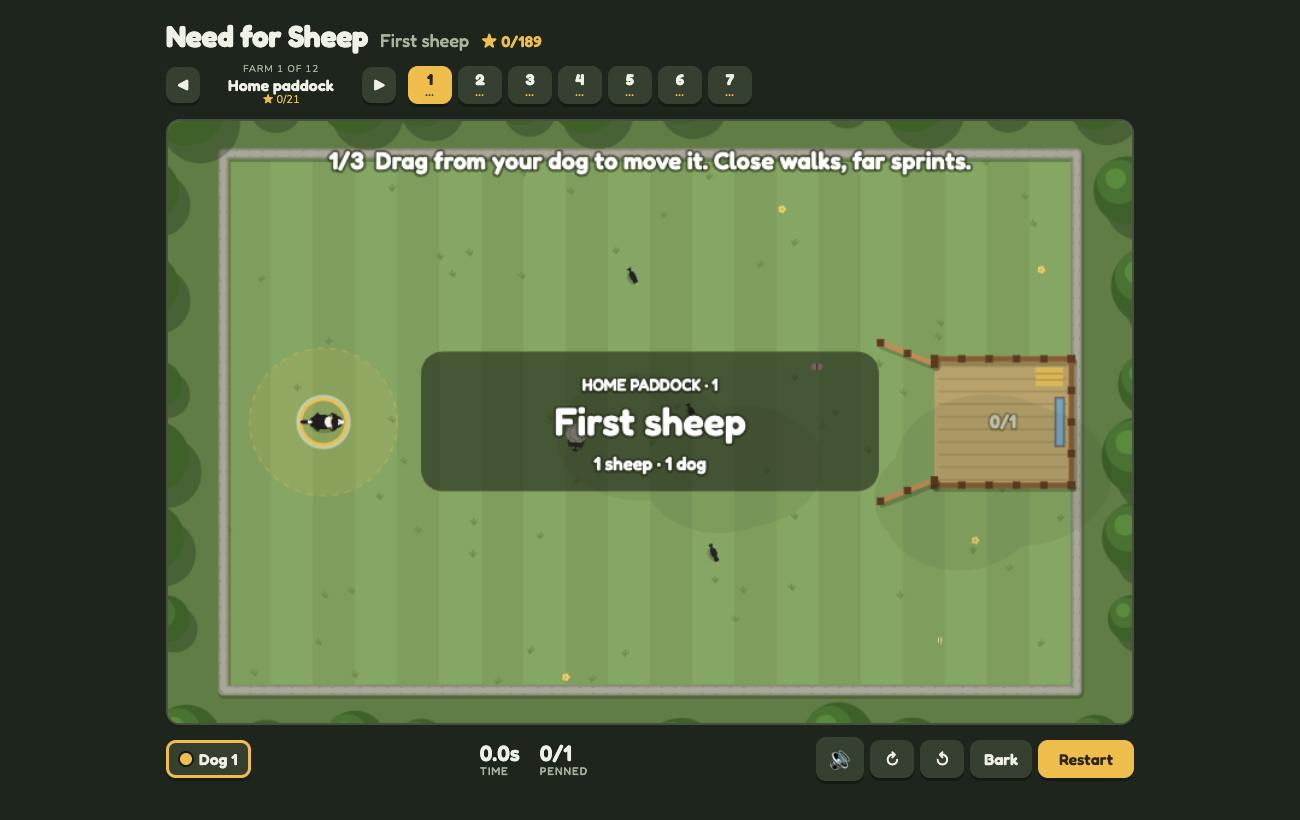
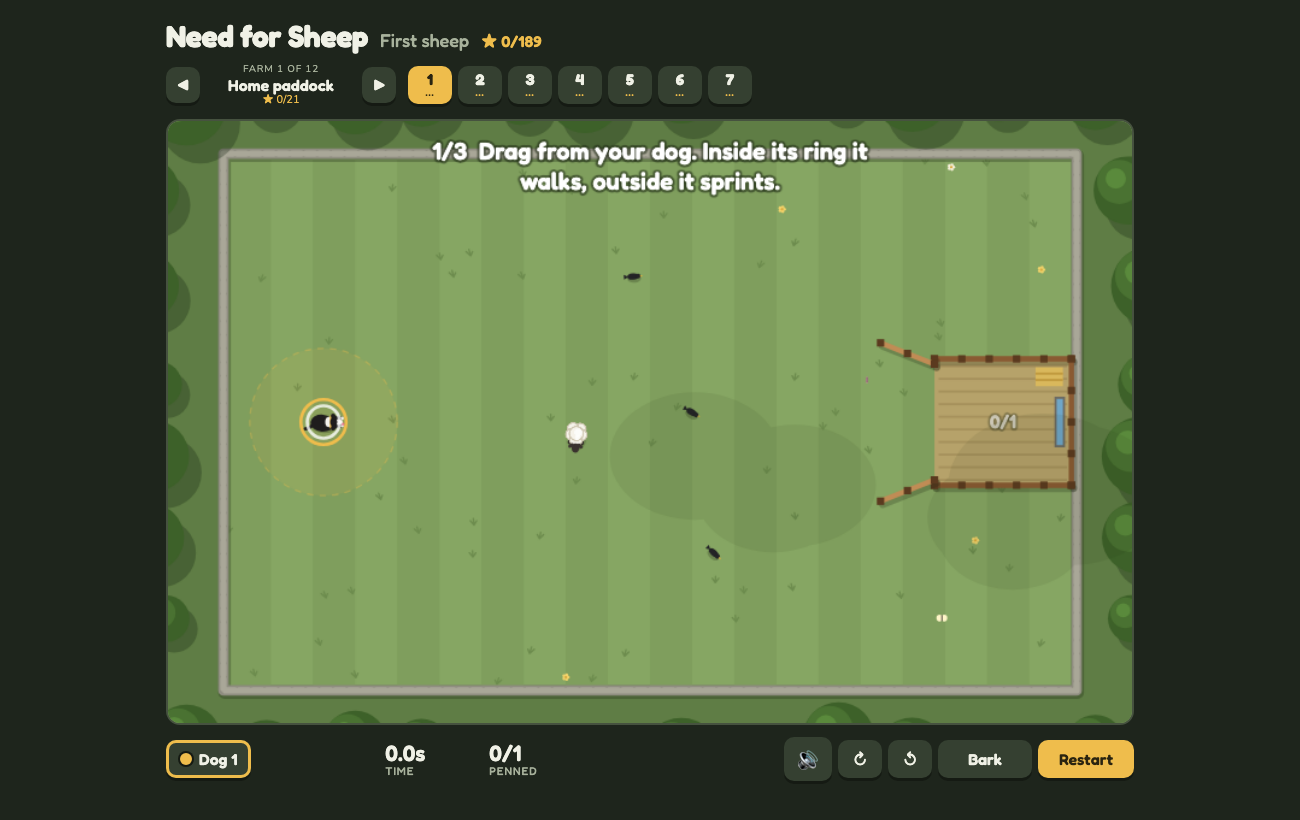
Need for Sheep: walk inside the dog's ring, wrapped tips that linger, a board that never jumps
- Dragging: the dog walks while the pointer is inside its dashed ring and sprints outside it
  (was: within ~40 field px, under a fingertip on zoomed fields); the pointer marker turns red when sprinting.
- On-field text wraps (seven tips ran off the canvas or under the minimap); a level's tip stays
  five seconds into the run and fades, instead of vanishing on the first move.
- Fixed header and bar layout: title row and farm row always separate, the Ghost button keeps its
  slot, Bark and the stats have room for their longest text.
- Instant hover help on the bar's buttons and level numbers.
- New UI settings block (POINTER_*, TIP_*, LABEL_MAX_WIDTH); sim untouched, so par times and the bot stand.

diff --git a/index.html b/index.html
@@ -24,10 +24,12 @@ body{margin:0}
 }
 body{background:var(--bg);color:var(--ink);font-family:var(--f-body);font-size:15px}
 .wrap{max-width:1000px;margin:0 auto;padding:18px 16px 40px;display:grid;gap:12px}
-.top{display:flex;flex-wrap:wrap;align-items:center;justify-content:space-between;gap:10px 16px}
-.title{display:flex;align-items:baseline;gap:12px;flex-wrap:wrap;min-width:0}
+/* The header keeps one shape on every level and farm: title row, then the farm and its levels, so the board never jumps. */
+.top{display:grid;gap:10px}
+.title{display:flex;align-items:baseline;gap:12px;min-width:0}
 h1{font-family:var(--f-display);font-weight:700;font-size:30px;margin:0;letter-spacing:-.01em}
-#lvname{font-family:var(--f-display);font-weight:500;font-size:18px;color:var(--muted)}
+#lvname{font-family:var(--f-display);font-weight:500;font-size:18px;color:var(--muted);min-width:0;white-space:nowrap;overflow:hidden;text-overflow:ellipsis}
+h1,#starTotal{white-space:nowrap}
 .levels{display:flex;gap:8px 12px;flex-wrap:wrap;align-items:center}
 .farmnav{display:flex;align-items:center;gap:6px}
 .farmnav button{width:34px;padding:8px 0}
@@ -50,13 +52,19 @@ button:active{transform:translateY(2px);box-shadow:0 1px 0 #151a13}
 button:focus-visible{outline:3px solid var(--accent);outline-offset:2px}
 button.primary{background:var(--accent);color:#2a2410;min-width:96px}
 button.off{opacity:.45}
+/* Instant hover help on the bar's buttons (a title tooltip takes a second to appear). */
+[data-tip]{position:relative}
+[data-tip]:hover::after{content:attr(data-tip);position:absolute;bottom:calc(100% + 8px);right:0;white-space:nowrap;pointer-events:none;
+  font:600 13px var(--f-body);color:var(--ink);background:var(--panel);border:1px solid var(--line);padding:5px 9px;border-radius:8px;box-shadow:0 3px 8px rgba(0,0,0,.35);z-index:5}
+@media (hover:none){[data-tip]:hover::after{display:none}}
 button.whistle{width:44px;padding:9px 0;touch-action:none}
+#bBark{min-width:94px} /* room for the cooldown, so the bar never shifts */
 button.whistle.on{background:var(--accent);color:#2a2410}
 .dog{display:flex;align-items:center;gap:7px}
 .dog i{width:12px;height:12px;border-radius:50%;display:block;box-shadow:0 0 0 2px #151a13}
 .dog.sel{box-shadow:0 0 0 3px var(--c) inset,0 3px 0 #151a13}
 .stats{display:flex;gap:20px;font-family:var(--f-display);font-variant-numeric:tabular-nums}
-.stat{display:grid;line-height:1.1}
+.stat{display:grid;line-height:1.1;min-width:84px} /* room for 4-digit times and 150/150 */
 .stat b{font-size:22px;font-weight:600}
 .stat span{font-size:11px;color:var(--muted);text-transform:uppercase;letter-spacing:.08em}
 .overlay{position:absolute;inset:0;display:grid;place-items:safe center;overflow:auto;background:rgba(18,23,16,.6);padding:16px}
@@ -87,7 +95,7 @@ button.whistle.on{background:var(--accent);color:#2a2410}
 .board .note{margin:0;font-size:13px;color:var(--muted)}
 @keyframes pop{0%{transform:scale(0) rotate(-40deg)}100%{transform:scale(1)}}
 @media (prefers-reduced-motion:reduce){.stars span.on{animation:none}}
-@media (max-width:560px){h1{font-size:24px}.stat b{font-size:18px}button{font-size:14px;padding:8px 11px}}
+@media (max-width:560px){h1{font-size:24px}.stat b{font-size:18px}.stat{min-width:70px}button{font-size:14px;padding:8px 11px}.lv{width:38px}#bBark{min-width:80px}}
 </style>
 </head>
 <body>
@@ -123,12 +131,12 @@ button.whistle.on{background:var(--accent);color:#2a2410}
       <div class="stat"><b id="sSheep">0/1</b><span id="sSheepLabel">penned</span></div>
     </div>
     <div class="group">
-      <button id="bGhost" title="G: show or hide the ghost">Ghost</button>
-      <button id="bSound" title="M: sound on or off" aria-label="Sound">🔊</button>
-      <button class="whistle" id="bComeBye" title="Q (hold): come bye, circle the flock clockwise" aria-label="Come bye">↻</button>
-      <button class="whistle" id="bAway" title="E (hold): away to me, circle the flock anticlockwise" aria-label="Away to me">↺</button>
-      <button id="bBark" title="Space">Bark <small id="barkCd"></small></button>
-      <button class="primary" id="bRestart">Restart</button>
+      <button id="bGhost" data-tip="Show or hide the ghost (G)">Ghost</button>
+      <button id="bSound" data-tip="Sound on or off (M)" aria-label="Sound">🔊</button>
+      <button class="whistle" id="bComeBye" data-tip="Hold: circle the flock clockwise (Q)" aria-label="Come bye">↻</button>
+      <button class="whistle" id="bAway" data-tip="Hold: circle the flock anticlockwise (E)" aria-label="Away to me">↺</button>
+      <button id="bBark" data-tip="Bark: lambs run behind the ewes (Space)">Bark <small id="barkCd"></small></button>
+      <button class="primary" id="bRestart" data-tip="Start the level again (R)">Restart</button>
     </div>
   </div>
 </div>
@@ -881,6 +889,12 @@ if(typeof module!=='undefined')module.exports={LEVELS,FARMS,ORDER,makeWorld,step
 
 <script>
 /* ---------- game UI ---------- */
+// UI settings: how the controls feel and how long hints stay up (the simulation's own numbers are in the sim script)
+const POINTER_WALK_ZONE=RMIN;  // drag inside the dog's dashed ring (field px) and it walks; further out it sprints
+const POINTER_SPRINT_RAMP=50;  // past the ring the dog speeds up from a walk to a full sprint over this many field px
+const POINTER_GAIN=6;          // how sharply the dog closes on the pointer (speed per px of distance, before the cap)
+const TIP_LINGER=5,TIP_FADE=1; // a level's tip stays this many seconds into the run, then fades out over TIP_FADE
+const LABEL_MAX_WIDTH=400;     // on-field text wraps at this width (screen px), clear of a minimap in a top corner
 const DOG_COLOURS=['#efbd4c','#71bdf0','#f0806f'];
 const SPRINT_COLOUR='#ef7b6b';
 const FONT='Fredoka, system-ui, sans-serif';
@@ -1030,7 +1044,7 @@ const validGhost=dogs=>Array.isArray(dogs)&&dogs.length===level.dogs.length
   &&dogs.every(d=>Array.isArray(d)&&d.length>=2&&d.length%2===0&&d.every(Number.isFinite));
 function setGhost(name,time,dogs){
   ghost=validGhost(dogs)?{name,time,dogs,headings:dogs.map(()=>0)}:null;
-  $('#bGhost').hidden=!ghost;
+  $('#bGhost').style.visibility=ghost?'':'hidden'; // keeps its slot, so the bar does not shift
 }
 function saveMyGhost(time){
   const best=myGhosts[levelIndex];
@@ -1060,7 +1074,7 @@ function buildLevels(){
     const b=document.createElement('button'),got=stars[i]||0;
     b.className='lv'+(i==levelIndex?' cur':'');
     b.innerHTML=`<b>${first+k+1}</b><small>${'★'.repeat(got)}${'·'.repeat(3-got)}</small>`;
-    b.title=LEVELS[i].name;b.onclick=()=>load(i);
+    b.dataset.tip=LEVELS[i].name;b.setAttribute('aria-label',`Level ${first+k+1}: ${LEVELS[i].name}`);b.onclick=()=>load(i);
     row.appendChild(b);
   });
   el.append(nav,row);
@@ -1321,7 +1335,12 @@ $('#bGhost').onclick=toggleGhost;
 $('#ovRetry').onclick=reset;
 $('#ovNext').onclick=()=>load(nextLevel());
 
-// Pointer: the dog walks when you lead it closely and sprints when the pointer is far ahead.
+// Pointer: the dog walks while the pointer is inside its dashed ring and sprints when the pointer is further out.
+// The ring is measured in the field, so it is the same circle the player sees at any zoom, wider than a fingertip.
+function pointerSpeed(dog){
+  const beyond=Math.hypot(pointer[0]-dog.x,pointer[1]-dog.y)-POINTER_WALK_ZONE;
+  return beyond<=0?DOG_WALK:DOG_WALK+(DOG_MAX-DOG_WALK)*Math.min(1,beyond/POINTER_SPRINT_RAMP);
+}
 // Keys: walk, Shift sprints. Only the selected dog takes these; the others stand still as blockers,
 // unless the map sent one somewhere: it runs there on its own, until it arrives or you steer it.
 function steerDogs(){
@@ -1337,7 +1356,7 @@ function steerDogs(){
     const steered=i===selected&&(pointerHeld&&pointer||x||y||flank);
     if(steered)dog.send=null;
     if(i===selected&&pointerHeld&&pointer){
-      Object.assign(dog,{driving:true,targetX:pointer[0],targetY:pointer[1],maxSpeed:DOG_MAX,gain:2.6});
+      Object.assign(dog,{driving:true,targetX:pointer[0],targetY:pointer[1],maxSpeed:pointerSpeed(dog),gain:POINTER_GAIN});
     }else if(flank&&!x&&!y){
       const to=flankTarget(dog,Math.sign(flank));
       if(to)Object.assign(dog,{driving:true,targetX:to[0],targetY:to[1],maxSpeed:DOG_MAX,gain:6});
@@ -1355,10 +1374,21 @@ function steerDogs(){
 /* ---------- drawing ---------- */
 const SHADOW='rgba(30,40,20,.25)';
 function circle(x,y,r){ctx.beginPath();ctx.arc(x,y,r,0,7);ctx.fill();}
+// White text with a soft dark outline, centred on (x,y). Text wider than LABEL_MAX_WIDTH wraps onto more lines,
+// the block still centred on (x,y).
 function label(text,x,y,size=20){
   ctx.font=`600 ${size}px ${FONT}`;ctx.textAlign='center';ctx.textBaseline='middle';
-  ctx.lineWidth=5;ctx.strokeStyle='rgba(30,40,20,.55)';ctx.strokeText(text,x,y);
-  ctx.fillStyle='#fff';ctx.fillText(text,x,y);
+  const lines=[''];
+  for(const word of text.split(' ')){
+    const line=lines[lines.length-1],longer=line?line+' '+word:word;
+    if(line&&ctx.measureText(longer).width>LABEL_MAX_WIDTH)lines.push(word);else lines[lines.length-1]=longer;
+  }
+  const lineHeight=size*1.25;
+  lines.forEach((line,k)=>{
+    const lineY=y+(k-(lines.length-1)/2)*lineHeight;
+    ctx.lineWidth=5;ctx.strokeStyle='rgba(30,40,20,.55)';ctx.strokeText(line,x,lineY);
+    ctx.fillStyle='#fff';ctx.fillText(line,x,lineY);
+  });
 }
 function drawFence(x1,y1,x2,y2,wood='#8a5a32'){
   ctx.lineCap='round';
@@ -1950,7 +1980,8 @@ function drawPointerLine(){
   world.dogs.forEach((dog,i)=>{
     const to=i===selected&&pointerHeld&&pointer?pointer:dog.send;
     if(!to)return;
-    ctx.strokeStyle=DOG_COLOURS[i];ctx.globalAlpha=.6;ctx.lineWidth=2;ctx.setLineDash([6,6]);
+    const sprinting=to===pointer&&pointerSpeed(dog)>DOG_WALK; // the pointer is outside the walk ring
+    ctx.strokeStyle=sprinting?SPRINT_COLOUR:DOG_COLOURS[i];ctx.globalAlpha=.6;ctx.lineWidth=2;ctx.setLineDash([6,6]);
     ctx.beginPath();ctx.moveTo(dog.x,dog.y);ctx.lineTo(...to);ctx.stroke();
     ctx.setLineDash([]);ctx.globalAlpha=1;
     ctx.lineWidth=3;ctx.beginPath();ctx.arc(to[0],to[1],9,0,7);ctx.stroke();
@@ -2092,7 +2123,7 @@ const centreOf=kind=>{const free=world.sheep.filter(s=>s.kind===kind&&!s.penned)
 const SPLIT_GAP={x:460,y:250}; // the gap between Shepherd's test's two fences
 const TUTORIALS={
   'First sheep':[
-    {text:'1/3  Drag from your dog to move it. Close walks, far sprints.',
+    {text:'1/3  Drag from your dog. Inside its ring it walks, outside it sprints.',
       target:()=>world.dogs[0],done:()=>Math.hypot(world.dogs[0].x-level.dogs[0][0],world.dogs[0].y-level.dogs[0][1])>40},
     {text:'2/3  Sheep run from your dog. Walk up behind it.',
       target:()=>{const s=world.sheep[0],g=gateMiddle(world.pens[0]),gx=g.x-s.x,gy=g.y-s.y,d=Math.hypot(gx,gy)||1;
@@ -2156,7 +2187,7 @@ function drawHint(step){
     ctx.fillStyle='rgba(18,23,16,.68)';ctx.fillRect(0,0,FIELD_W,FIELD_H);
     label('Paused',FIELD_W/2,96,40);label('P, Esc or tap to go on',FIELD_W/2,134,18);
     // the controls, two columns
-    const rows=[['Drag','run the dog: close walks, far sprints'],['WASD / arrows','walk, Shift sprints'],['Space','bark'],
+    const rows=[['Drag','run the dog: inside its ring walks, outside sprints'],['WASD / arrows','walk, Shift sprints'],['Space','bark'],
       ['Q  /  E','circle the flock: come bye / away'],['Tab, 1-3','switch dog'],['Map','tap to send the dog there'],['R  ·  M  ·  G','restart · sound · ghost']];
     ctx.font=`600 15px ${FONT}`;ctx.textBaseline='middle';
     rows.forEach(([key,what],i)=>{
@@ -2166,13 +2197,17 @@ function drawHint(step){
     });
     return;
   }
-  if(step)return label(step.text,FIELD_W/2,34);
-  if(mode!=='ready')return;
+  if(step)return label(step.text,FIELD_W/2,38);
+  // the level's tip: up before the start, and for the first TIP_LINGER seconds of the run, then fading out
+  const fade=mode==='ready'?1:mode==='play'?clamp((TIP_LINGER+TIP_FADE-world.t)/TIP_FADE,0,1):0;
+  if(!fade)return;
   const text=level.tip?level.tip
-    :level.dogs.length>1?'Drag close to walk, far to sprint. Tab, right-click or tap a dog to switch.'
-    :'Drag close to the dog to walk, far ahead to sprint';
-  const penAtTop=world.pens.some(P=>(P.y-cam.y)*zoom<60&&(P.x-cam.x)*zoom<520&&(P.x+P.w-cam.x)*zoom>280); // then show the hint at the bottom
-  label(text,FIELD_W/2,penAtTop?FIELD_H-30:34);
+    :level.dogs.length>1?'Drag inside the ring to walk, outside to sprint. Tab, right-click or tap a dog to switch.'
+    :'Drag inside the dashed ring to walk, outside it to sprint';
+  const penAtTop=world.pens.some(P=>(P.y-cam.y)*zoom<70&&(P.x-cam.x)*zoom<620&&(P.x+P.w-cam.x)*zoom>180); // then show the hint at the bottom
+  ctx.globalAlpha=fade;
+  label(text,FIELD_W/2,penAtTop?FIELD_H-44:44);
+  ctx.globalAlpha=1;
 }
 function render(now){
   const t=now/1000,step=lesson();

diff --git a/README.md b/README.md
@@ -2,7 +2,7 @@
 
 ### ▶ [Play Need for Sheep in your browser](https://louisvandenbruwaene.github.io/need-for-sheep/)
 
-No install, no account: open the link and play. Drag from your dog to move it: close walks, far sprints. Level 1 walks you through it.
+No install, no account: open the link and play. Drag from your dog to move it: inside its dashed ring it walks, outside it sprints. Level 1 walks you through it.
 
 [![Need for Sheep: a sheepdog and the pen on the first paddock](screenshot.png)](https://louisvandenbruwaene.github.io/need-for-sheep/)
 
@@ -12,7 +12,7 @@ Fields are zoomed out until they fit the screen. A field too big for that is see
 
 Most levels give you one dog. A second dog appears only where you need it to block off somewhere the flock would get stuck (a side yard, an old quarry, a gateway to nowhere); a pulsing ring shows where to park it.
 
-Two levels carry a three-step tutorial: the first level teaches herding, Shepherd's test teaches splitting a flock with a bark. Each prompt points at where to go and moves on once you have done it.
+Each level's tip stays up for the first seconds of the run. Two levels carry a three-step tutorial: the first level teaches herding, Shepherd's test teaches splitting a flock with a bark. Each prompt points at where to go and moves on once you have done it.
 
 Sheep squash together but never through each other: each has a solid core half the size of its wool. They keep together, too: on an open field one that loses sight of the flock walks back to the nearest flockmate, and penned sheep amble to the back of the pen so the gateway stays clear for the rest. A pen is either flush against a wall or edge, or has plenty of room round it, so no sheep wedges itself behind one.
 
@@ -22,7 +22,7 @@ Sheep squash together but never through each other: each has a solid core half t
 
 The field is alive: sheep graze, blink, chatter in speech bubbles and now and then faint when barked at; crows peck about, scatter when the dog comes and sometimes ride on a sheep's back; cloud shadows drift over; mud takes footprints. Each farm has its own light. A full pen bounces, the last sheep in sets off confetti, and the results card adds up how far your dog ran.
 
-Controls: drag to run the dog (close to walk, far to sprint) or arrow keys / WASD with Shift to sprint. Space barks. Hold Q (come bye) or E (away to me) and the dog circles the nearest bunch of sheep clockwise or anticlockwise, the way a shepherd whistles a dog round its flock; the ↻ and ↺ buttons do the same on touch. Tab or right-click switches dog, 1-3 picks one. P or Esc pauses (so does leaving the window), R restarts, M mutes, G hides the ghost, Enter goes on from the results.
+Controls: drag to run the dog (inside its dashed ring to walk, outside to sprint) or arrow keys / WASD with Shift to sprint. Space barks. Hold Q (come bye) or E (away to me) and the dog circles the nearest bunch of sheep clockwise or anticlockwise, the way a shepherd whistles a dog round its flock; the ↻ and ↺ buttons do the same on touch. Tab or right-click switches dog, 1-3 picks one. P or Esc pauses (so does leaving the window), R restarts, M mutes, G hides the ghost, Enter goes on from the results.
 
 Sorting pens are labelled EWES or LAMBS. They take any sheep but only count their own kind, and a sheep in the wrong pen stays free to be driven out. A gate swings shut once its pen holds every sheep it needs. Your best run on each level comes back as a ghost dog to race.
 
